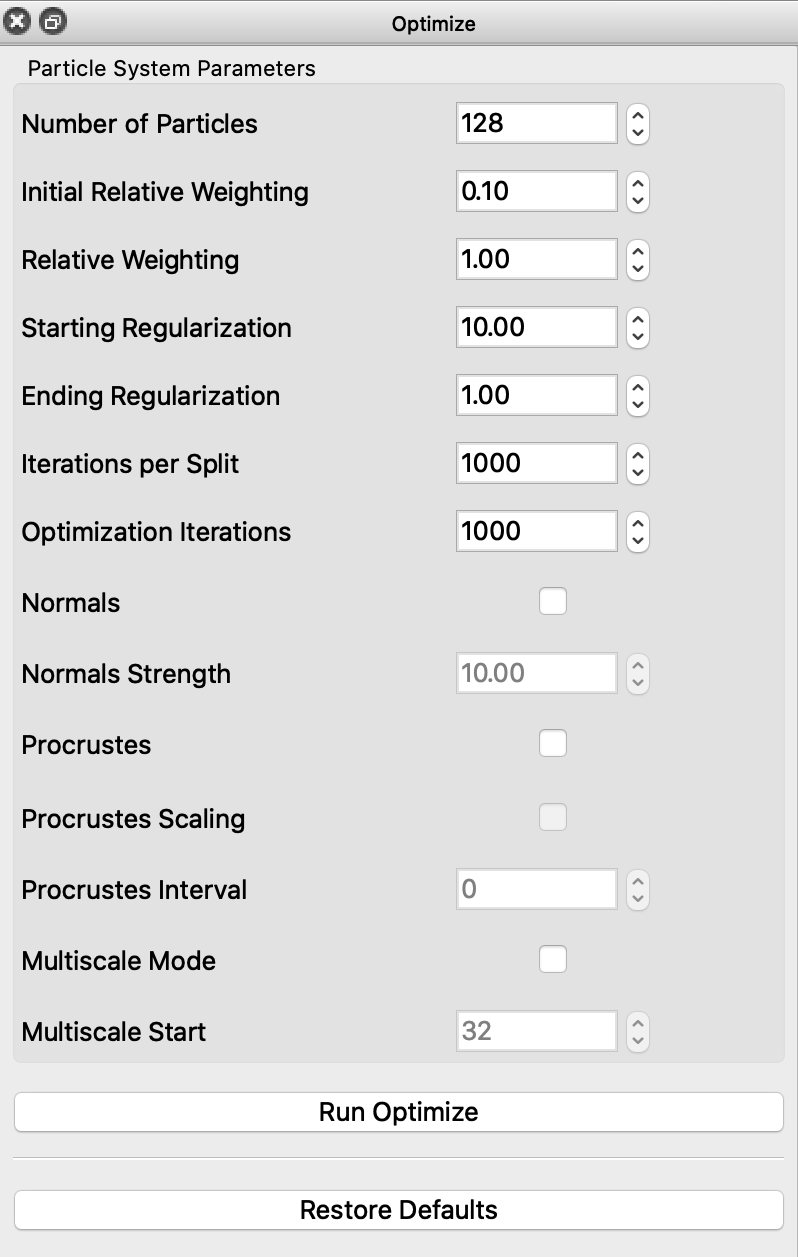
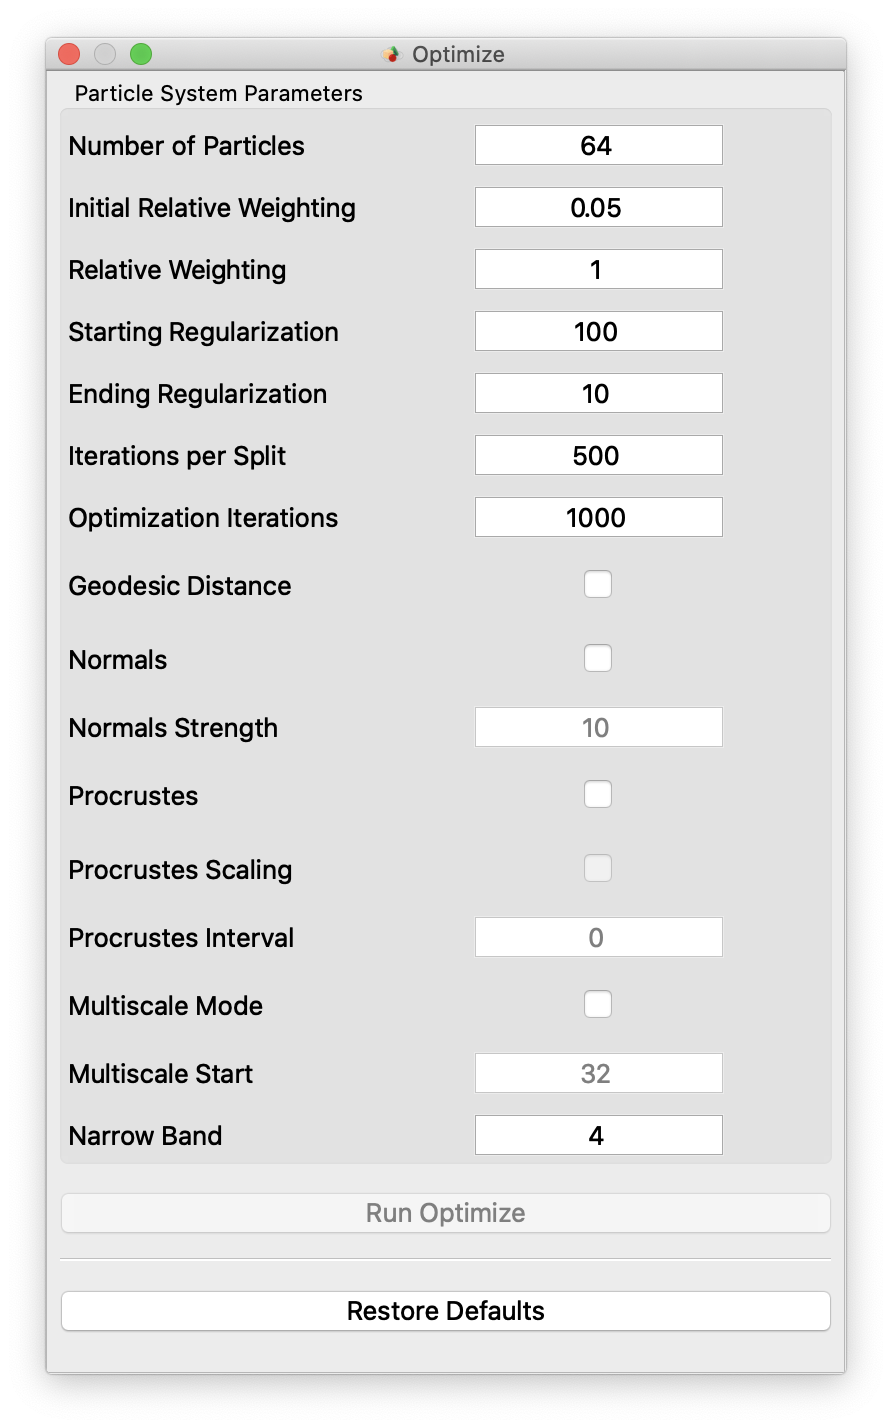
Updating studio docs with "new in studio 6.2"

Changed region(s): [[0.0, 0.0, 1.0, 1.0], [0.0301, 0.8687, 0.0602, 0.9618]]

diff --git a/docs/new/new-studio.md b/docs/new/new-studio.md
@@ -1,4 +1,4 @@
-# New in ShapeWorks Studio
+# New in ShapeWorks Studio 6.2
 
 
 ## DeepSSM in Studio
@@ -21,14 +21,67 @@ See [Multiple Domain Alignments](../studio/multiple-domains.md#multiple-domain-a
 
 New in ShapeWorks 6.2, we have added new shape evaluation charts.  Charts for Compactness, Specificity and Generalizaion are provided.
 
+See [Studio Metrics Panel](../studio/getting-started-with-studio.md#metrics-panel) for more information.
+
 ![Studio DeepSSM - Shape Evaluation](../img/studio/studio_shape_evaluation.png){: width="600" }
 
 ## Group p-value Display
 
-New in ShapeWorks 6.2, we have added the ability to view group-wise p-values for surface differences.
+New in ShapeWorks 6.2, Studio has the ability to view group-wise p-values for surface differences.
 
 ![Studio DeepSSM - Group p-value](../img/studio/studio_group_pvalue.png){: width="600" }
 
+## Scalar range controls
+
+New in ShapeWorks 6.2, Studio feature maps, p-value displays, deepssm surface error displays allow for manual control over scalar colormap values.
+
+<p><video src="https://sci.utah.edu/~shapeworks/doc-resources/mp4s/studio_feature_scale.mp4" autoplay muted loop controls style="width:100%"></p>
+
+
+## Surface opacity controls
+
+Shape surface opacity can now be controlled on a per domain basis.
+
+<p><video src="https://sci.utah.edu/~shapeworks/doc-resources/mp4s/studio_opacity_controls.mp4" autoplay muted loop controls style="width:100%"></p>
+
+
+## Added narrow band optimization parameter
+
+The narrow band optimization parameter has been added to Studio's Optimize parameter dialog.  This allows the user to modifiy the narrow band from the default of 4 in the rare event that it needs modification.
+
+## New message history window
+
+A new button in the lower corner has been added that brings up the message history from the status bar.
+
+![Studio Message History](../img/studio/studio_message_history.png){: width="600" }
+
+
+## New suppressible error dialog
+
+The error dialog has been replaced with a new dialog containing a checkbox to suppress further messages
+
+![Studio Error Message](../img/studio/studio_error_message.png){: width="400" }
+
+## Multiple domain export options (combined + separate)
+
+When exporting data in the presences of multiple anatomies/domains, you may now export a combined file, or one for each domain.
+
+![Studio Multiple Domain Question](../img/studio/studio_multiple_domain_question.png){: width="400" }
+
+## Allow initial landmark points
+
+Initial particle positions can be specified in a Project Spreadsheet using the column prefix `landmarks_file_<name>` where `<name>` is the name of each shape domain.  For example:
+
+![Studio Initial Landmarks](../img/studio/studio_initial_landmarks.png){: width="400" }
+
+These landmarks will be used as the initial positions of particles during optimization.  They are not yet visualized within Studio before optimization.
+
+## Mesh warping improvements
+Multiple sources of crashes during mesh warping have been fixed and the overall speed has been dramatically improved.
+
+---
+
+# New in ShapeWorks Studio 6.1
 
 ## Multiple Domains
 
